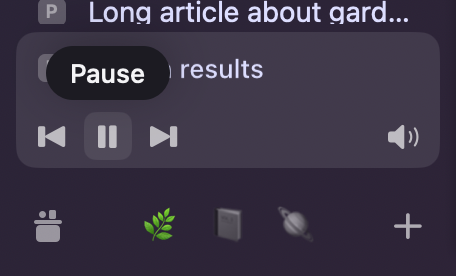
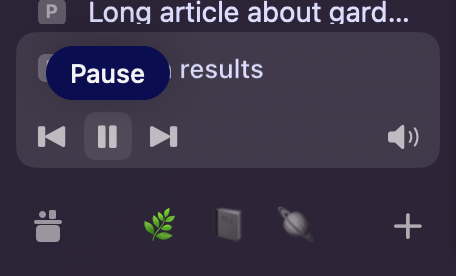
Re-render the media tooltip PNGs with the measured default tooltip fill

Changed region(s): [[0.0921, 0.1449, 0.3991, 0.3768]]

diff --git a/Packages/OpenKit/MediaRenders/step3/README.md b/Packages/OpenKit/MediaRenders/step3/README.md
@@ -86,3 +86,9 @@ Increase Contrast uses a diagnostics override of the normal accessibility path.
 | increase-contrast | [PNG](increase-contrast-light-228.png) | [PNG](increase-contrast-dark-228.png) |
 
 57 PNGs total. [Review-r1 runtime receipt](evidence/review-r1-check.txt).
+
+Update 2026-10-26: the two tooltip PNGs were re-rendered with the same
+`render-scenes.py` arguments after the default-theme tooltip fill changed from
+the guess `#1C1B22` to the measured `#0A0D4F` (`docs/re/interaction-states.md` §5).
+Only the capsule pixels changed (box x 46–170, y 46–100 at 2x). The other PNGs
+were not re-rendered.
